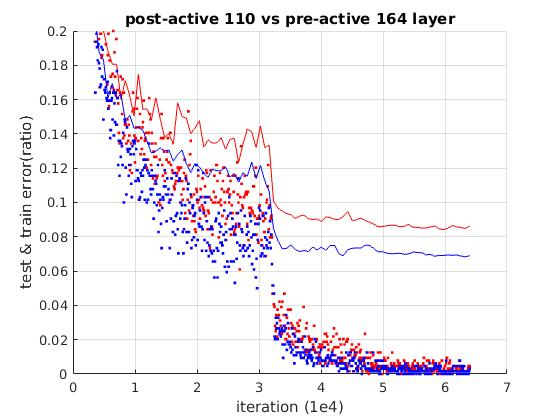
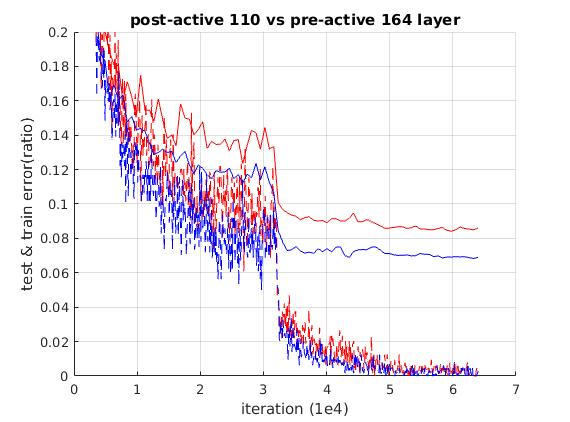
update pre_post_164.jpg

diff --git a/matlab/plot_acc_graph.m b/matlab/plot_acc_graph.m
@@ -55,9 +55,9 @@ res_y4 = test_acc_bottle_164layer(:,2);
 
 figure(3);
 hold on;
-plot(res_x1, res_y1, 'r.');
+plot(res_x1, res_y1, 'r--');
 plot(res_x2, res_y2, 'r-');
-plot(res_x3, res_y3, 'b.');
+plot(res_x3, res_y3, 'b--');
 plot(res_x4, res_y4, 'b-');
 axis( [ 0 7 0 0.2 ] )
 xlabel('iteration (1e4)');
